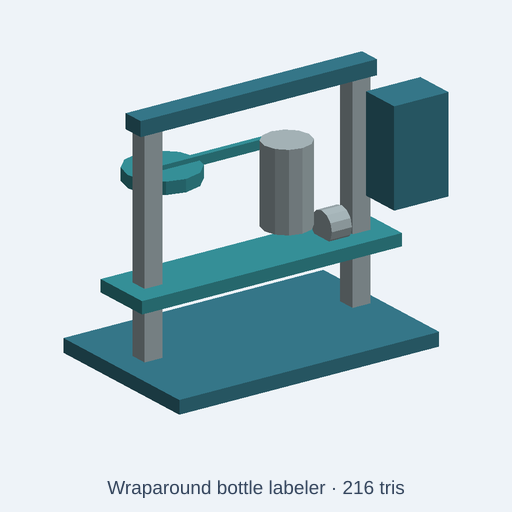
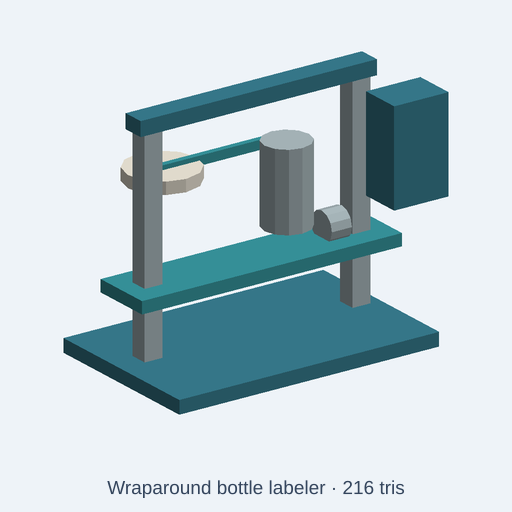
fix(catalog): render the wraparound labeler's label roll as paper stock
The label roll of the wraparound labeler is wound label web, the stock
the machine applies. Its part name matched the `label` finish rule, so it
rendered as a teal food-grade polymer disc. Add a labelStock colour
control (#efe9da, "Paper label stock") and route the roll to it;
sanitaryLine and legacyPlant set it. The pressure roller and vacuum drum
stay stainless.

Geometry, part names and the triangle count (216 / 2,200) are unchanged.
The new GLB colour test fails on the old source and passes after the fix.

Changed region(s): [[0.3125, 0.2812, 0.4062, 0.4062], [0.2188, 0.3125, 0.2812, 0.375]]

diff --git a/tests/integration/catalog/wraparoundLabelerRollMaterial.test.ts b/tests/integration/catalog/wraparoundLabelerRollMaterial.test.ts
@@ -1,0 +1,61 @@
+// SPDX-License-Identifier: MIT
+// Copyright (c) 2026 Andrii Shylenko and kernelCAD contributors
+
+import { resolve } from 'node:path';
+import { NodeIO } from '@gltf-transform/core';
+import { beforeAll, describe, expect, it } from 'vitest';
+import { buildCatalogAssetWithGlb } from '../../../src/agent/catalog/buildCatalog';
+import { initOcct } from '../../../src/kernel/backends/occt/occtBackend';
+
+const repoRoot = resolve(import.meta.dirname, '../../..');
+const source = 'catalog/kits/beverage-bottling-line/wraparound-labeler.kcad.ts';
+
+beforeAll(async () => {
+  await initOcct();
+}, 120_000);
+
+describe('beverage-bottling-line/wraparound-labeler materials', () => {
+  it('renders the label roll as paper label stock, not food-grade polymer', async () => {
+    const { asset, glb } = await buildCatalogAssetWithGlb(repoRoot, source);
+
+    expect(asset.stats.triangles).toBeLessThanOrEqual(asset.triangleBudget);
+    expect(asset.params.filter((param) => param.type === 'color').map((param) => param.name)).toEqual([
+      'stainlessSteel', 'powderCoat', 'foodPolymer', 'labelStock',
+    ]);
+    expect(Object.keys(asset.presets)).toEqual(['sanitaryLine', 'legacyPlant']);
+
+    const document = await new NodeIO().readBinary(glb);
+    const nodes = document.getRoot().listNodes();
+    const colorsFor = (name: string) => {
+      const node = nodes.find((candidate) => candidate.getName() === name);
+      return node?.getMesh()?.listPrimitives().flatMap((primitive) => {
+        const vertexColors = primitive.getAttribute('COLOR_0');
+        if (vertexColors !== null) {
+          return Array.from({ length: vertexColors.getCount() }, (_, index) => {
+            const color = vertexColors.getElement(index, []);
+            return color.slice(0, 3).map((channel) =>
+              channel <= 0.0031308 ? 12.92 * channel : 1.055 * channel ** (1 / 2.4) - 0.055,
+            );
+          });
+        }
+        const material = primitive.getMaterial();
+        return material === null ? [] : [material.getBaseColorFactor().slice(0, 3)];
+      }) ?? [];
+    };
+    const matches = (hex: string) => {
+      const expected = [1, 3, 5].map((shift) => parseInt(hex.slice(shift, shift + 2), 16) / 255);
+      return (color: number[]) => expected.every((channel, index) =>
+        Math.abs(channel - color[index]!) < 0.015,
+      );
+    };
+
+    const roll = colorsFor('label-roll');
+    expect(roll.length).toBeGreaterThan(0);
+    expect(roll.every(matches('#efe9da')), 'label-roll should be paper label stock').toBe(true);
+    for (const steel of ['vacuum-drum', 'pressure-roller']) {
+      const colors = colorsFor(steel);
+      expect(colors.length).toBeGreaterThan(0);
+      expect(colors.every(matches('#aebdc1')), `${steel} should stay stainless`).toBe(true);
+    }
+  }, 120_000);
+});

diff --git a/catalog/kits/beverage-bottling-line/wraparound-labeler.kcad.ts b/catalog/kits/beverage-bottling-line/wraparound-labeler.kcad.ts
@@ -5,7 +5,7 @@ meta({
   name: "wraparound-labeler",
   license: 'CC0-1.0',
   title: "Wraparound bottle labeler",
-  description: "Roll-fed label station with a vacuum drum, applicator plate, bottle wrap belt, and control box. Knobs: overall scale and color controls for stainless steel, powder-coated steel, and food-grade polymer.",
+  description: "Roll-fed label station with a vacuum drum, applicator plate, bottle wrap belt, and control box. Knobs: overall scale and color controls for stainless steel, powder-coated steel, food-grade polymer, and paper label stock.",
   tags: ['beverage bottling', 'packaging line', 'food manufacturing', 'low poly', 'CC0'],
   kit: 'beverage-bottling-line',
   category: 'structure',
@@ -18,17 +18,20 @@ const scale = param('scale', 1, { label: 'Overall scale', min: 0.65, max: 1.3, s
 const stainlessSteel = param('stainlessSteel', '#aebdc1', { label: 'Stainless steel' });
 const powderCoat = param('powderCoat', '#397e91', { label: 'Powder-coated steel' });
 const foodPolymer = param('foodPolymer', '#3999a1', { label: 'Food-grade polymer' });
+const labelStock = param('labelStock', '#efe9da', { label: 'Paper label stock' });
 
 presets({
   sanitaryLine: {
     stainlessSteel: '#d2dfe1',
     powderCoat: '#4b95a4',
     foodPolymer: '#2c828c',
+    labelStock: '#f6f2e8',
   },
   legacyPlant: {
     stainlessSteel: '#858f91',
     powderCoat: '#315b70',
     foodPolymer: '#286c75',
+    labelStock: '#ddd4bd',
   },
 });
 const boxPart = (x:number,y:number,z:number,w:number,d:number,h:number) => box(w,d,h,true).translate(x,y,z+h/2).scale(scale);
@@ -38,6 +41,8 @@ const xCylinderPart = (x:number,y:number,z:number,length:number,r:number,n=10) =
 const p = assembly("wraparound-labeler");
 const finishPart = (name: string, shape: ReturnType<typeof boxPart>) => {
   const component = name.toLowerCase();
+  // The label roll is wound paper label stock, not a polymer disc.
+  if (/roll$/i.test(component)) return shape.color(labelStock);
   if (/belt|guide|film|web|label|pad|seal|grip|cap|bottle|liner|tray|hose|cleat|divider|wheel|wrap|tape|suction|sleeve/i.test(component)) return shape.color(foodPolymer);
   if (/base|leg|foot|frame|support|stand|control|housing|cabinet|motor|drive|beam|panel|hood|skid|mount|platform|guard|rail|post|lift|jacket/i.test(component)) return shape.color(powderCoat);
   return shape.color(stainlessSteel);
